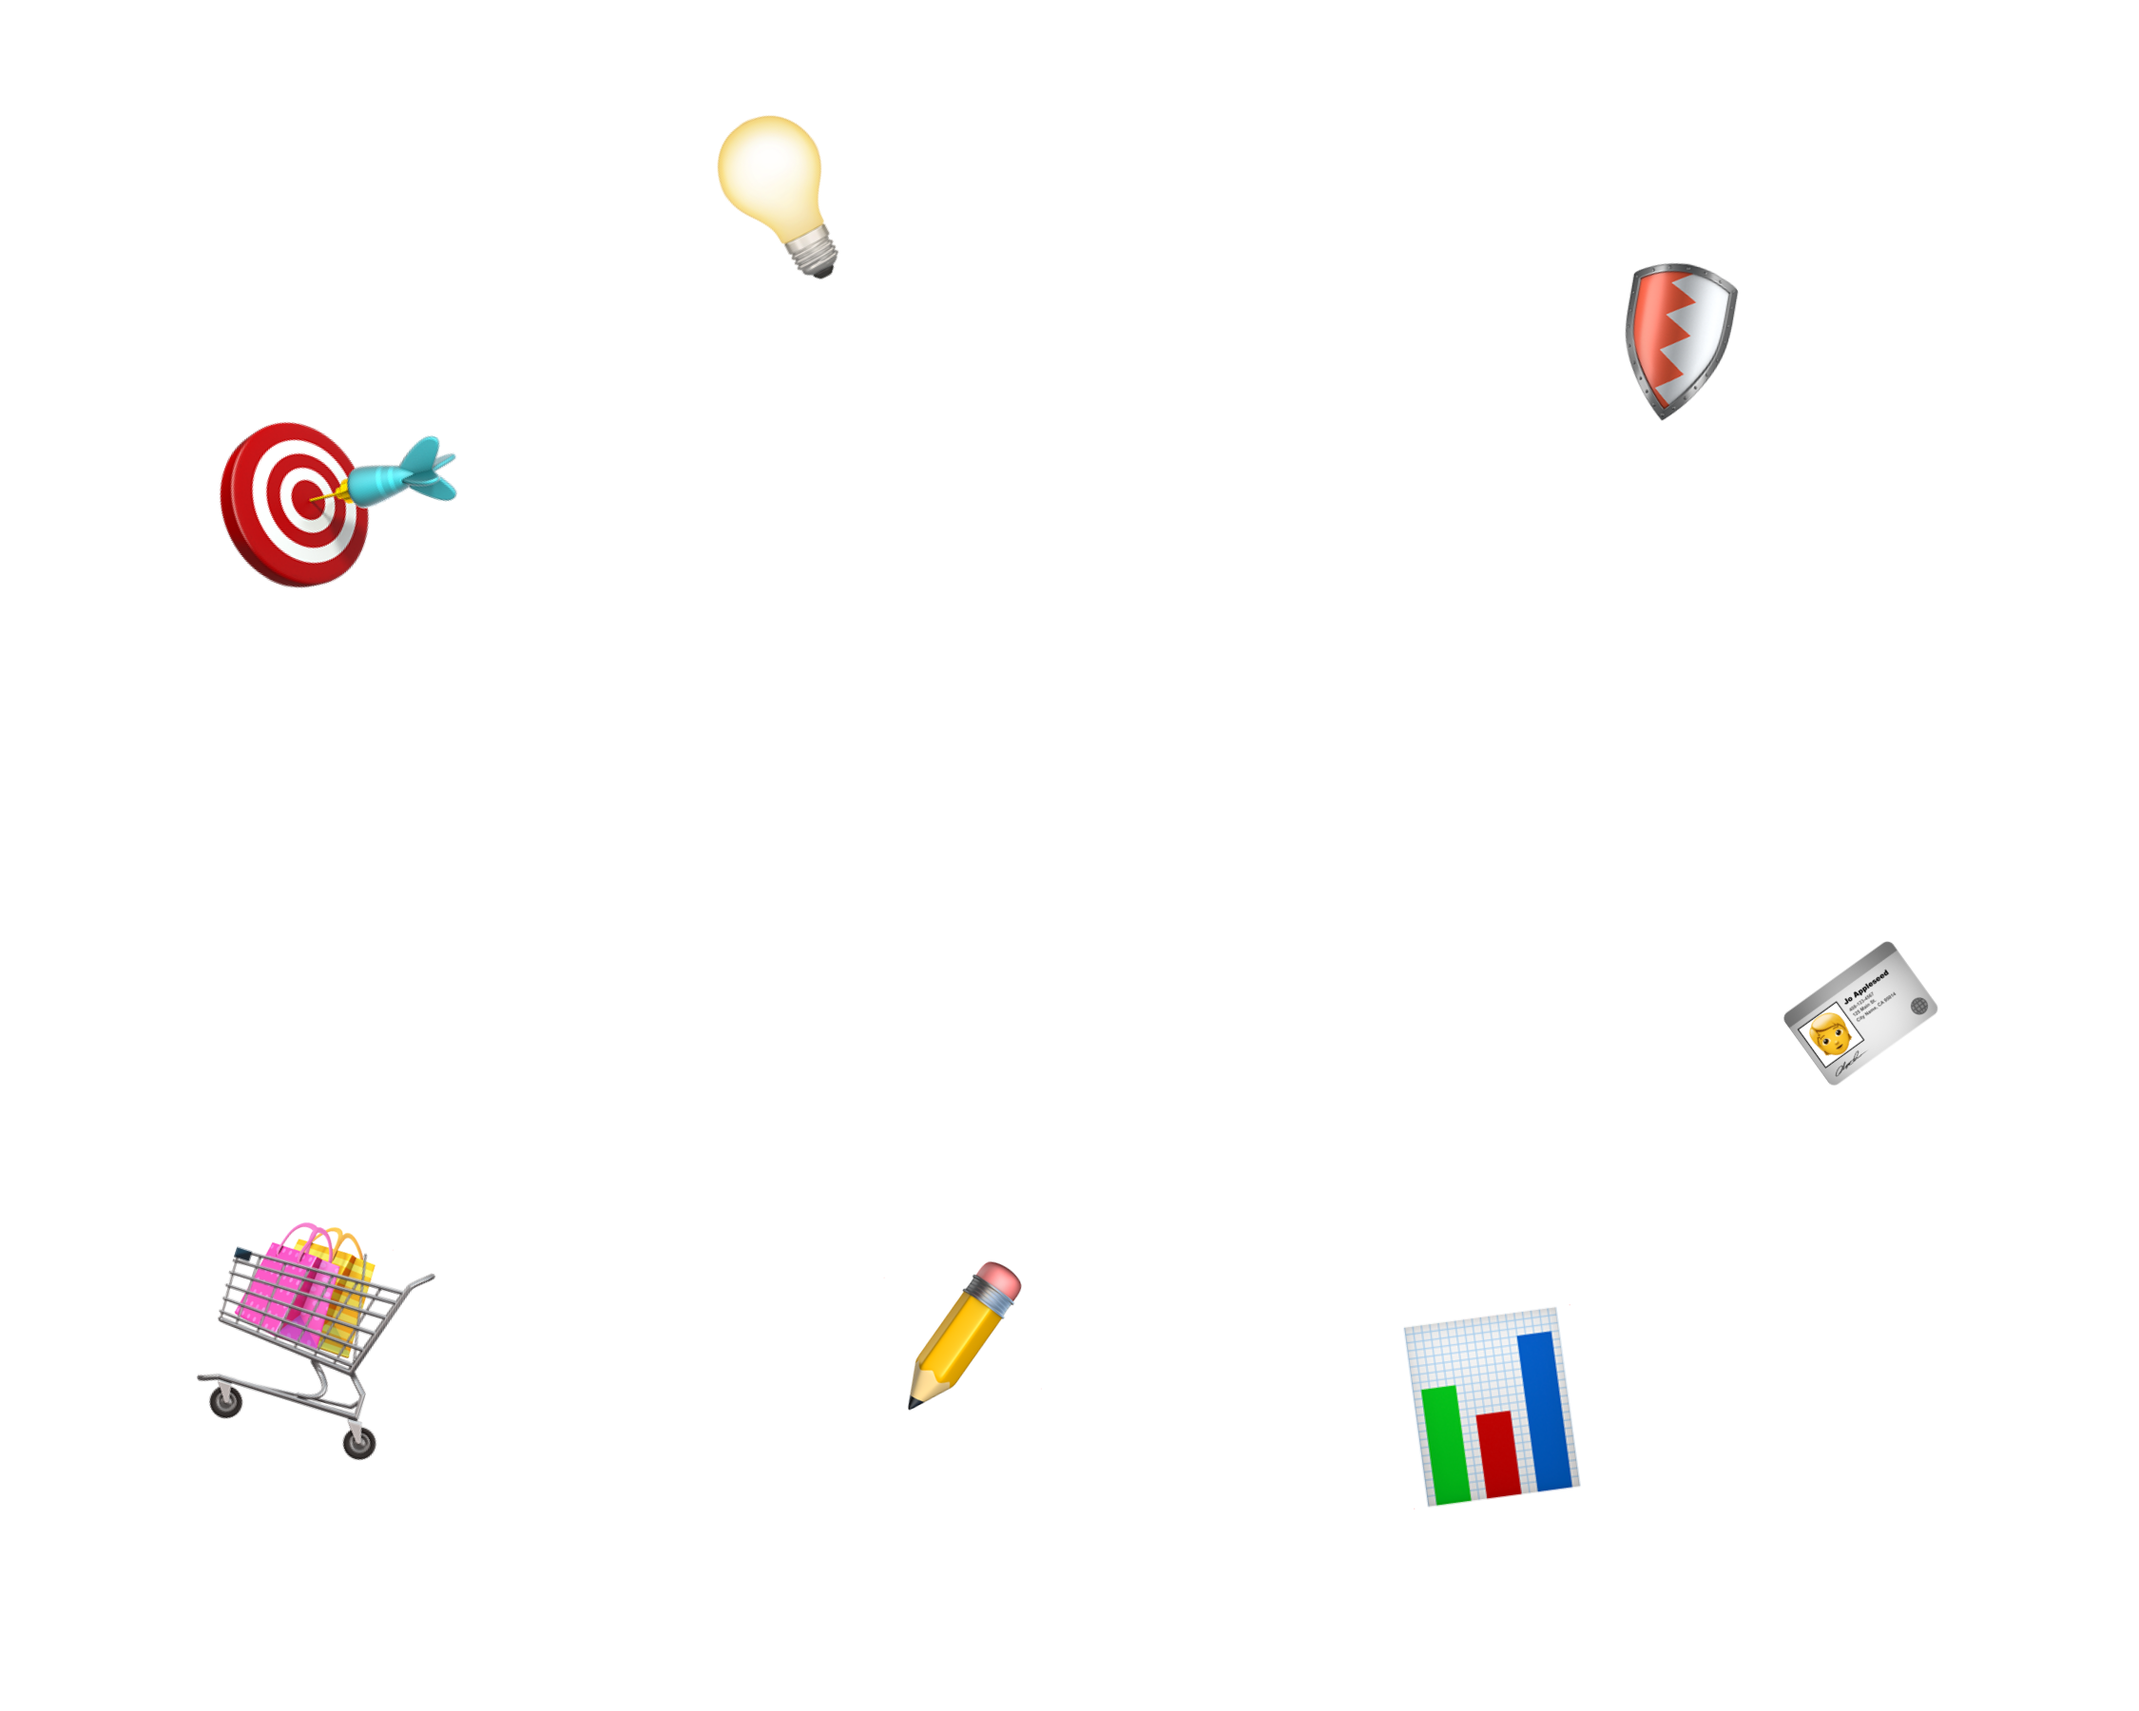
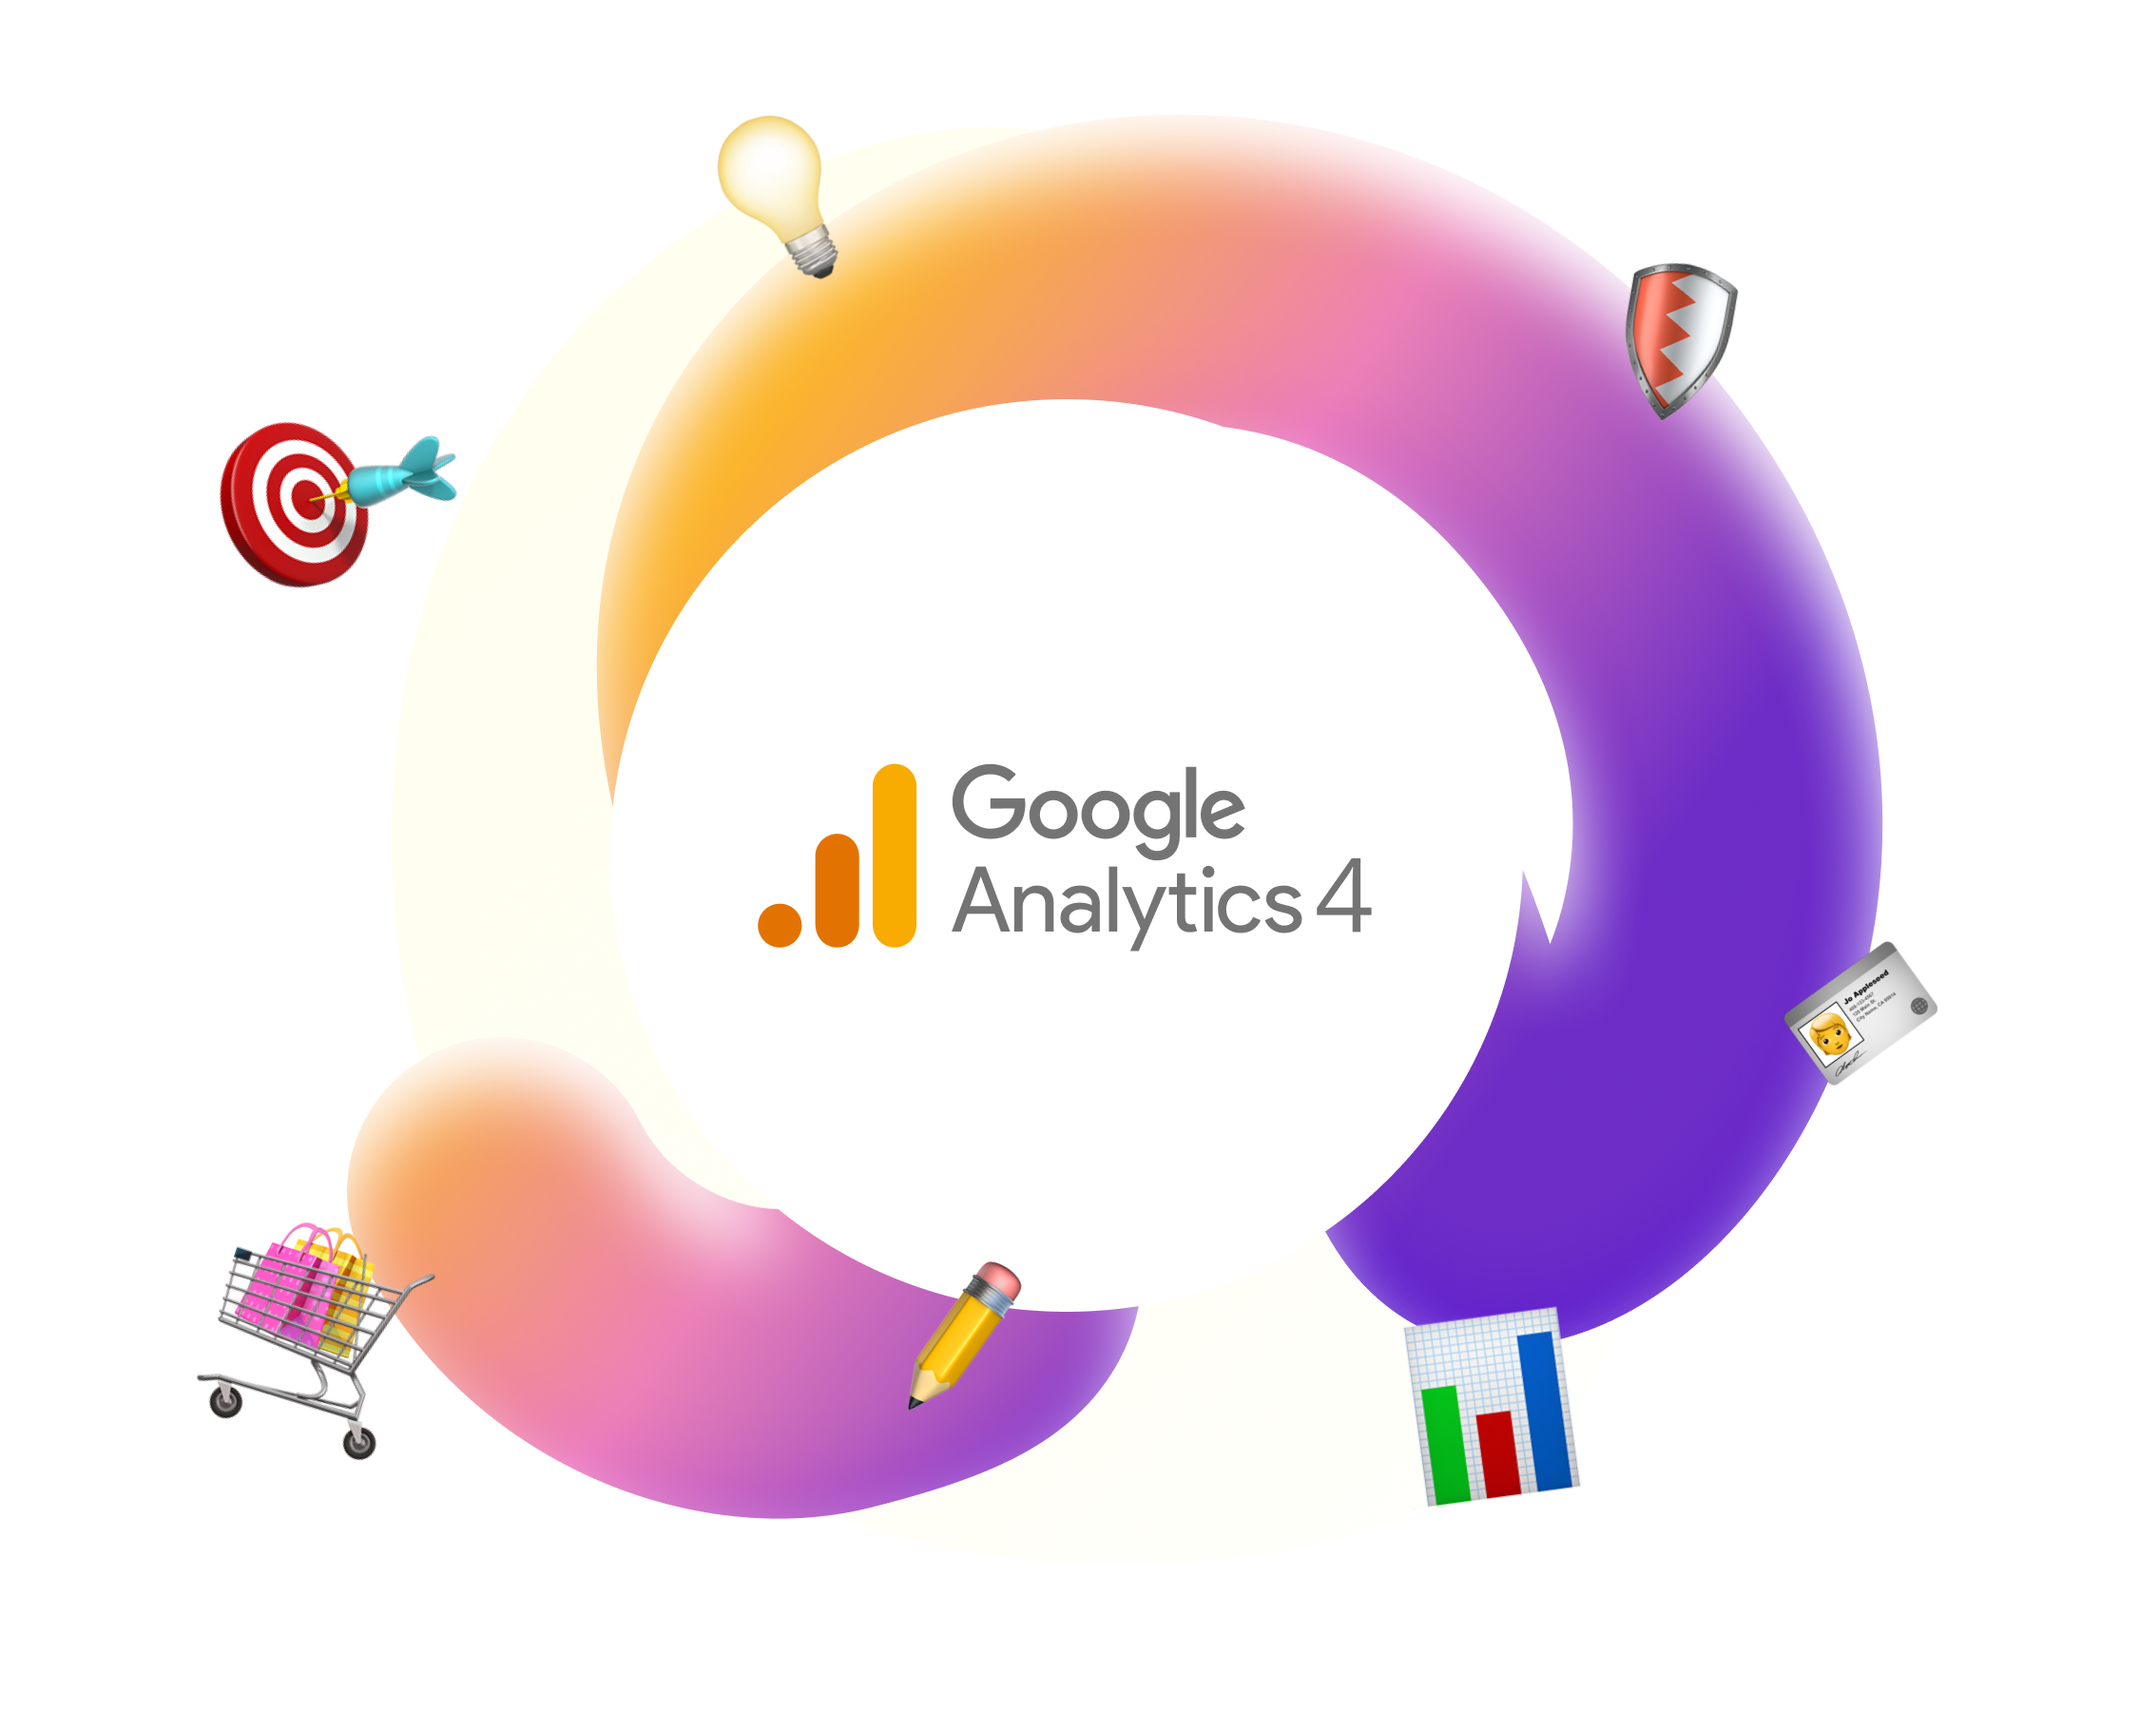
add new image

Changed region(s): [[0.28, 0.0622, 0.9022, 0.7778], [0.1556, 0.5911, 0.5289, 0.9022], [0.3422, 0.4356, 0.6533, 0.56]]

diff --git a/src/home.html b/src/home.html
@@ -420,10 +420,7 @@
                                 src="@img/icons/arrow.svg" alt=""></a></div>
                     <div class="analytics__right">
                         <div class="analytics__image">
-                            <div class="analytics__main-decor">
-                                <img src="@img/main-img/001.png" alt="">
-                            </div>
-                            <img src="@img/svg/01.svg" alt="">
+                            <img src="@img/main-img/001.png" alt="">
                             <span class="analytics__decor analytics__decor--1">🎯</span>
                             <span class="analytics__decor analytics__decor--2">💡</span>
                             <span
